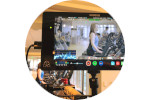
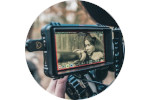
s

diff --git a/content/contact.md b/content/contact.md
@@ -2,7 +2,7 @@
 title = "Contact"
 id = "contact"
 +++
-<img src="https://benjamintelford.com/img/contact1.jpg" alt="" style="width:150px;height:100px;">
+<img src="https://benjamintelford.com/img/contact1.jpg" alt="" style="width:125px;height:100px;">
 <img src="https://benjamintelford.com/img/contact2.jpg" alt="" style="width:150px;height:100px;">
 <img src="https://benjamintelford.com/img/contact3.jpg" alt="" style="width:150px;height:100px;">
 <img src="https://benjamintelford.com/img/contact4.jpg" alt="" style="width:150px;height:100px;">
